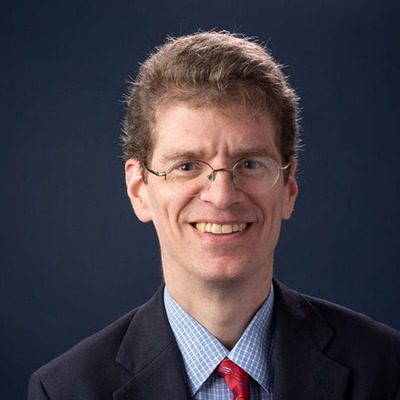
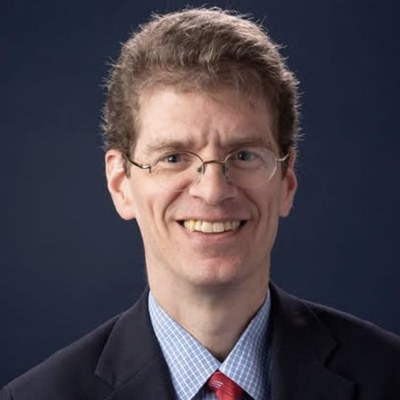
Add Walford, Sonna, and Mioni headshots; update Levering photo
Claude-Session: https://claude.ai/code/session_01WP2u9f1WPyac5wfKd8jLkp

diff --git a/to-his-face.html b/to-his-face.html
@@ -80,15 +80,18 @@
                 <div class="endorser-body"><blockquote>&ldquo;Likoudis, along with scholars such as Robert Fastiggi and Emmett O&rsquo;Regan, has staked out a constructive position that requires careful consideration by all who seek the good of Christ&rsquo;s Church as obedient spiritual sons and daughters of the pope.&rdquo;</blockquote><cite>Matthew Levering</cite><span class="cite-role">James N. Jr. and Mary D. Perry Chair of Theology, Mundelein Seminary</span></div>
             </div>
             <div class="endorser-card featured">
-                <div class="endorser-initial" style="display:flex">SW</div>
+                <img decoding="async" src="endorser-stephen-walford.jpg" alt="Stephen Walford" class="endorser-photo" onerror="this.style.display='none';this.nextElementSibling.style.display='flex'" loading="lazy">
+                <div class="endorser-initial" style="display:none">SW</div>
                 <div class="endorser-body"><blockquote>&ldquo;In this critical book, Andrew Likoudis offers a masterful analysis of the very issue that concerned St Paul VI in the aftermath of the Second Vatican Council, namely dissent against the teaching authority of the papal Magisterium.&rdquo;</blockquote><cite>Stephen Walford</cite><span class="cite-role">Author of <em>Pope Francis, the Family and Divorce</em>, with a preface by Pope Francis</span></div>
             </div>
             <div class="endorser-card">
-                <div class="endorser-initial" style="display:flex">SS</div>
+                <img decoding="async" src="endorser-suan-sonna.jpg" alt="Suan Sonna" class="endorser-photo" onerror="this.style.display='none';this.nextElementSibling.style.display='flex'" loading="lazy">
+                <div class="endorser-initial" style="display:none">SS</div>
                 <div class="endorser-body"><blockquote>&ldquo;Andrew Likoudis is lucid and courageous&hellip; It is remarkable how Likoudis has produced a text accessible to the layperson, rich enough for the seasoned theologian, and, above all, timely for our situation. I can easily recommend this book to anyone.&rdquo;</blockquote><cite>Suan Sonna</cite><span class="cite-role">Director of Apologetics, Diocese of Bridgeport, CT</span></div>
             </div>
             <div class="endorser-card">
-                <div class="endorser-initial" style="display:flex">AM</div>
+                <img decoding="async" src="endorser-andrew-mioni.jpg" alt="Andrew Mioni" class="endorser-photo" onerror="this.style.display='none';this.nextElementSibling.style.display='flex'" loading="lazy">
+                <div class="endorser-initial" style="display:none">AM</div>
                 <div class="endorser-body"><blockquote>&ldquo;A clear, concise, and measured contribution to the pervasive discourse on obedience in today&rsquo;s ecclesial atmosphere&hellip; This book engages honestly with the questions of authority, infallibility, and permissible criticism, and offers a response that will benefit any concerned individual, whether or not they are formally trained in theology.&rdquo;</blockquote><cite>Andrew Mioni</cite><span class="cite-role">Author of <em>Ignorance of Things Divine</em></span></div>
             </div>
             <div class="endorser-card">
